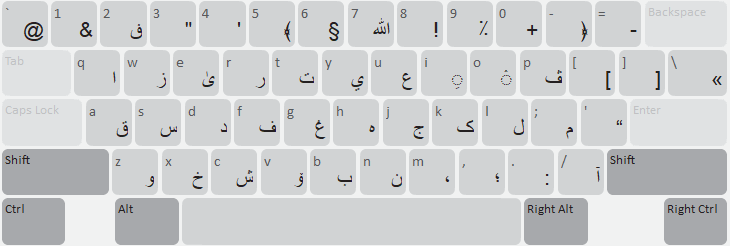
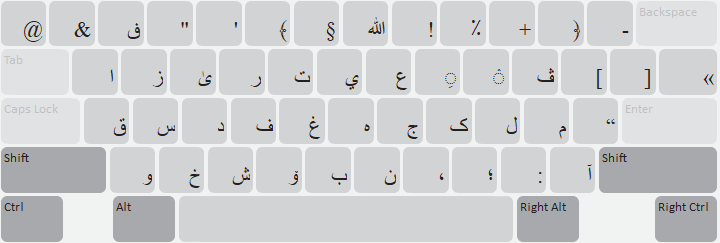
[fulfulde_borgu_ajami_azerty] Remove display underlying to avoid confusion

diff --git a/experimental/f/fulfulde_borgu_ajami_azerty/HISTORY.md b/experimental/f/fulfulde_borgu_ajami_azerty/HISTORY.md
@@ -1,6 +1,10 @@
 Borgu Fulfulde Ajami (Azerty) Change History
 ====================
 
+1.0.2 (2025-09-22)
+----------------
+* Remove background keys (qwerty-based) on OSK
+
 1.0.1 (2025-07-03)
 ----------------
 * Change title in .kps package to Azerty
